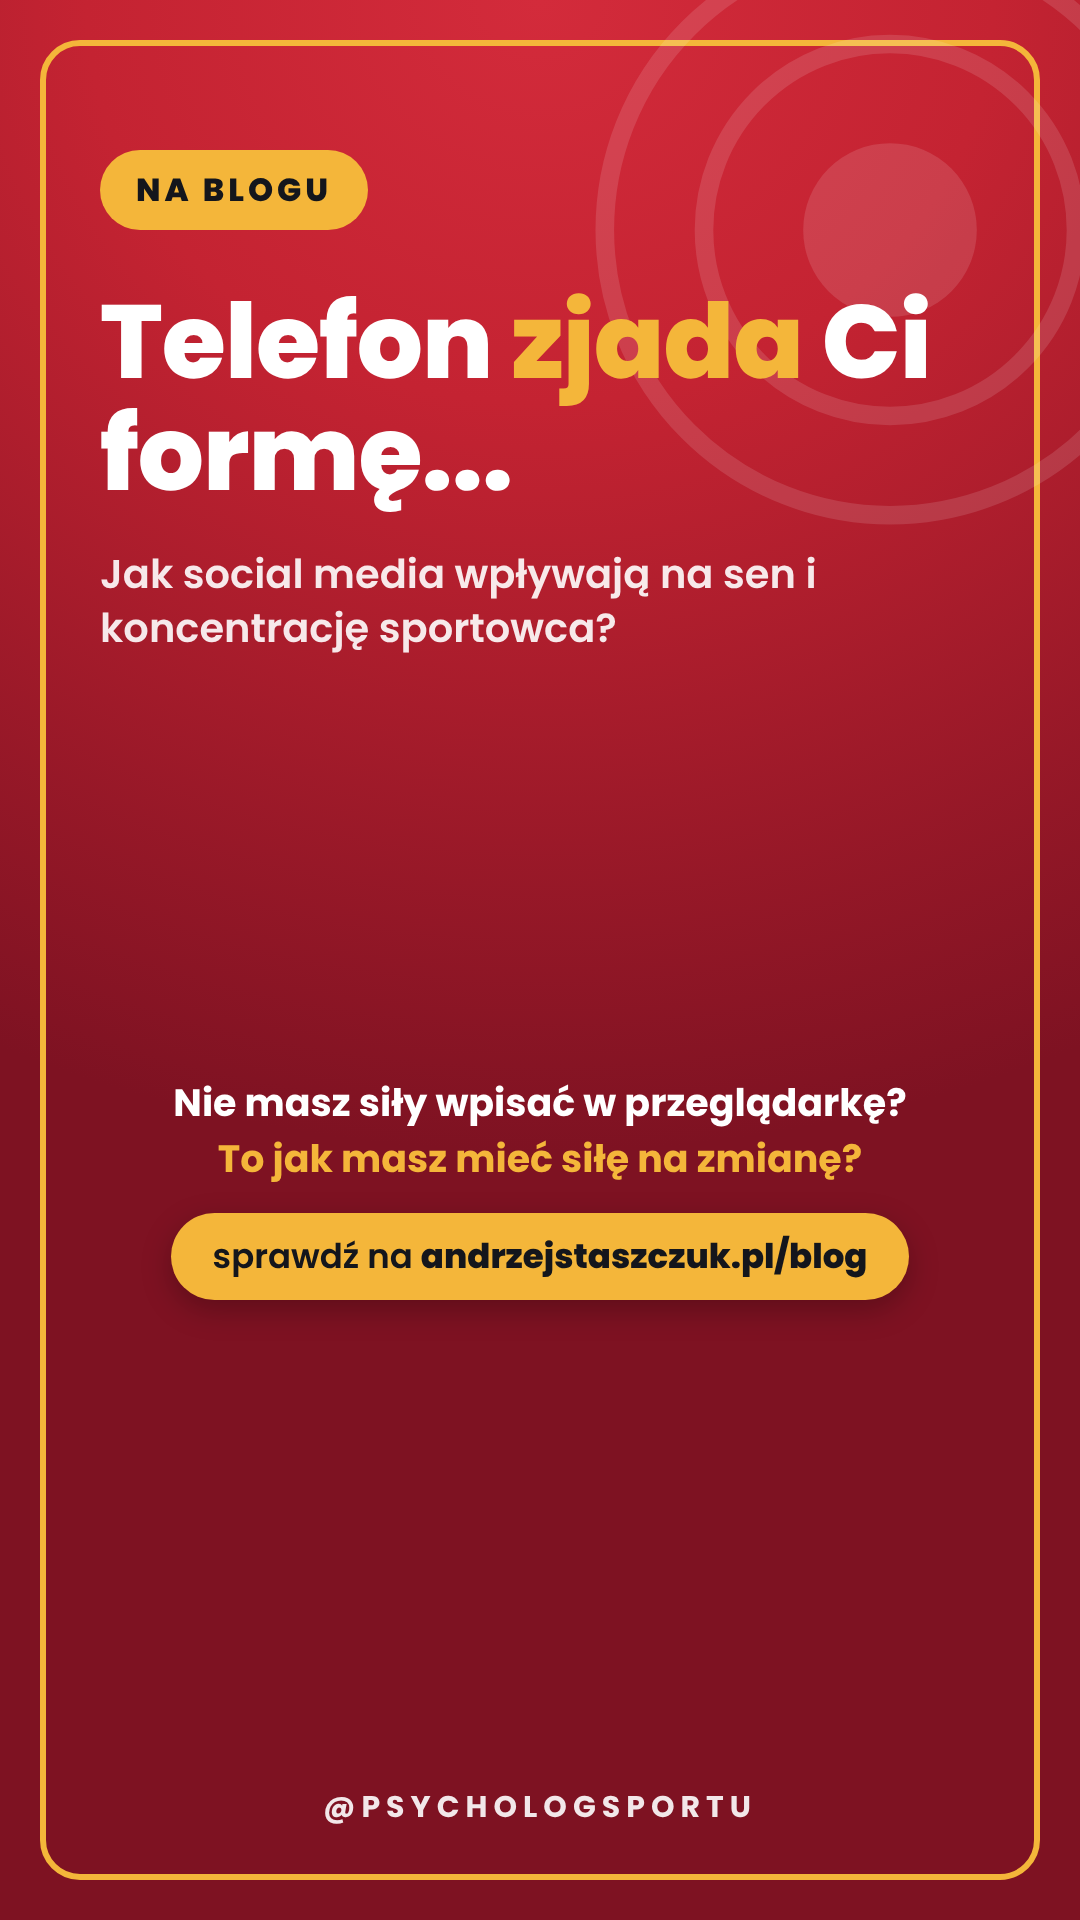
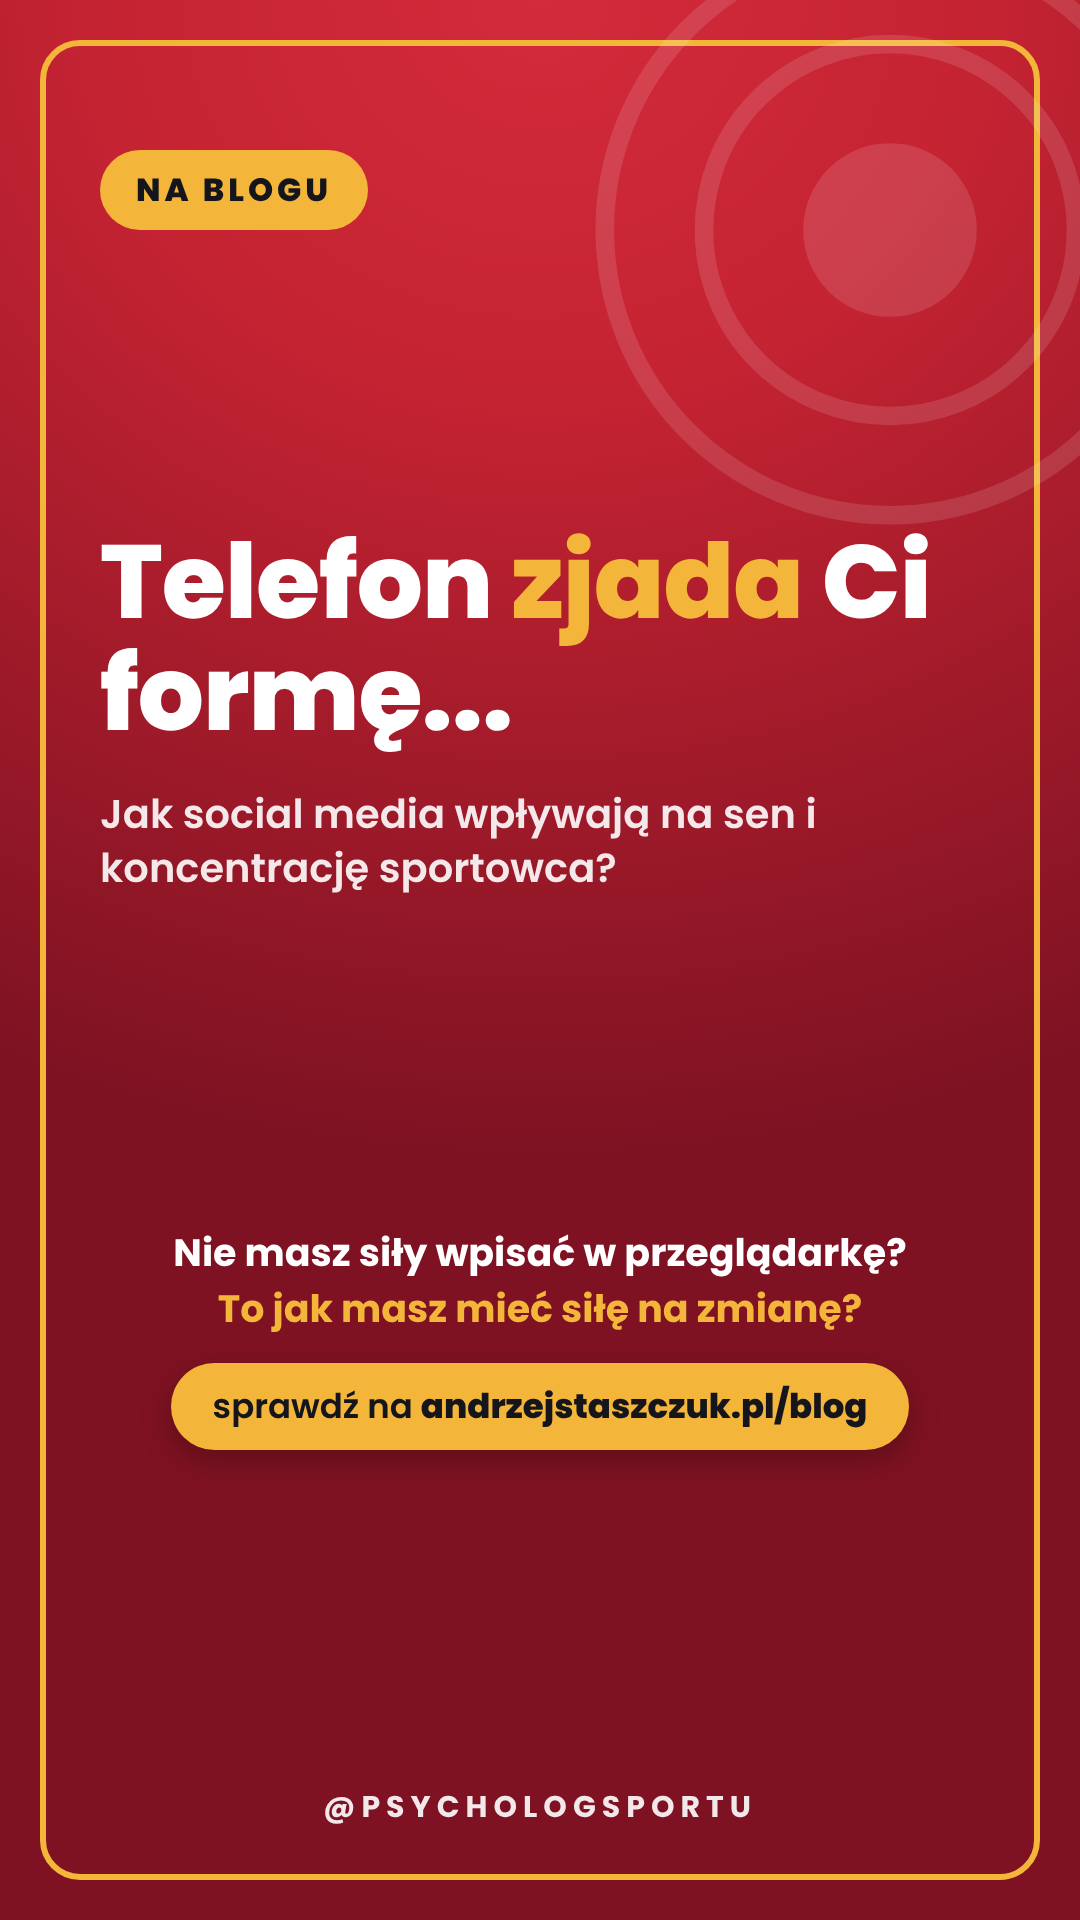
Relacje z bloga: tytuł niżej
Claude-Session: https://claude.ai/code/session_01A5PTvWpyS7iEo6fG2kmJPS

Changed region(s): [[0.0917, 0.1562, 0.8556, 0.4688], [0.1528, 0.5625, 0.8556, 0.7812]]

diff --git a/tools/relacja-wpis.js b/tools/relacja-wpis.js
@@ -19,7 +19,7 @@ body{width:1080px;height:1920px;overflow:hidden;font-family:Pop;color:#fff;backg
 <svg style="position:absolute;right:-120px;top:-80px;opacity:.12" width="620" height="620" viewBox="0 0 100 100"><circle cx="50" cy="50" r="46" fill="none" stroke="#fff" stroke-width="3"/><circle cx="50" cy="50" r="30" fill="none" stroke="#fff" stroke-width="3"/><circle cx="50" cy="50" r="14" fill="#fff"/></svg>
 <div style="position:absolute;left:100px;right:100px;top:150px">
   <span style="display:inline-block;background:${Y};color:#14161C;font:800 32px Pop;letter-spacing:4px;padding:16px 36px;border-radius:999px">${esc(o.kicker)}</span>
-  <div style="margin-top:56px;font:800 104px/1.08 Pop;letter-spacing:-1px">${esc(o.t1)}<span style="color:${Y}">${esc(o.hl)}</span>${esc(o.t2)}</div>
+  <div style="margin-top:${56+(+o.titleShift||0)}px;font:800 104px/1.08 Pop;letter-spacing:-1px">${esc(o.t1)}<span style="color:${Y}">${esc(o.hl)}</span>${esc(o.t2)}</div>
   <div style="margin-top:36px;font:600 40px/1.35 Pop;color:rgba(255,255,255,.9)">${esc(o.sub)}</div>
 </div>
 ${items?`<div style="position:absolute;left:100px;right:100px;top:${o.itemsTop || 930}px;background:rgba(20,22,28,.55);border-radius:32px;padding:50px 50px">${items}</div>`:''}

diff --git a/relacje-marki/UWAGI-ANDRZEJA.md b/relacje-marki/UWAGI-ANDRZEJA.md
@@ -9,3 +9,4 @@
 - 26.11.2026: pod adresem bloga zawsze drugi wiersz (cta2, żółty): Nie masz siły wpisać w przeglądarkę? To jak masz mieć siłę na zmianę? Napis na dole niżej (ctaBottom ok. 380, przy 4-linijkowym tytule 330), żeby nie nachodził na listę.
 - 26.11.2026: dół relacji estetyczniej: najpierw pytanie (pierwsze zdanie białe, drugie żółte), pod nim żółta pigułka z adresem: sprawdź na andrzejstaszczuk.pl/blog (adres pogrubiony). ctaBottom ok. 340 (przy dłuższej liście 290–300); między pigułką a podpisem @PSYCHOLOGSPORTU miejsce na naklejkę.
 - 26.11.2026: NIE dawaj rozwiązań na relacji z bloga (items puste, bez ramki z punktami). Zostaje: etykieta, tytuł-haczyk, podtytuł-pytanie, pytanie o siłę na zmianę i pigułka z adresem bloga (ctaBottom ok. 620, przy 4-linijkowym tytule 560). Rozwiązania są na blogu.
+- 26.11.2026: tytuł główny niżej (titleShift 240), napis z adresem niżej (ctaBottom ok. 430, przy krótkim tytule 470, przy 4 linijkach 380).
